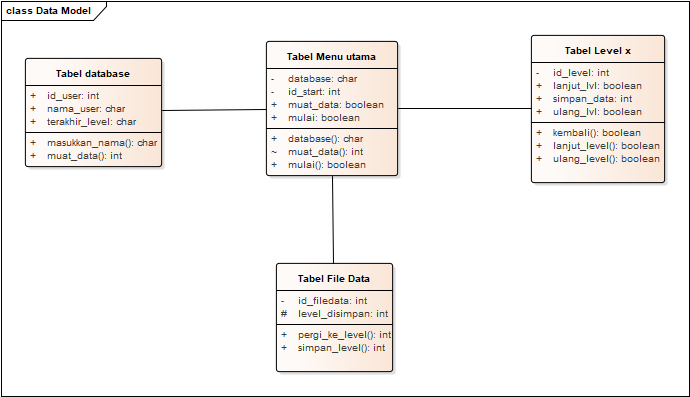
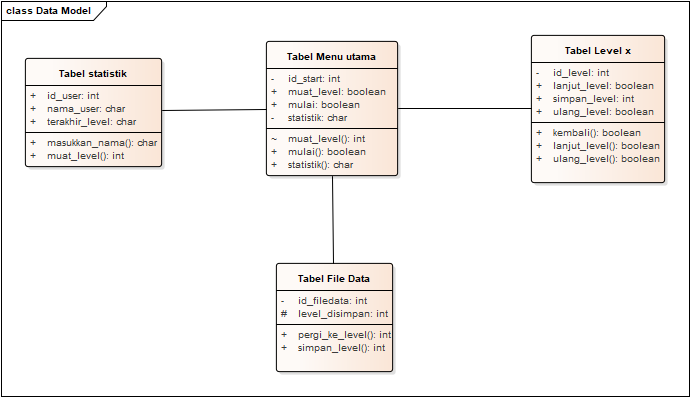
img

diff --git a/README.md b/README.md
@@ -16,19 +16,21 @@ Game ini dibuat dengan bahasa pemrograman GDscript yang mengandung bahasa python
 ### 1. mulai
 ![](foto_v5/act%20v/activity%20mulai.png)
 ### 2. muat data
-![](foto_v5/act%20v/activity%20muat%20data.png)
+![](foto_v5/act%20v/activity%20muat%20level.png)
 ### 3. simpan data
-![](foto_v5/act%20v/activity%20simpan%20data.png)
+![](foto_v5/act%20v/activity%20simpan%20level.png)
 ### 4. database
-![](foto_v5/act%20v/activity%20database.png)
+![](foto_v5/act%20v/activity%20statistik.png)
 
 ## sequence Model
 ### 1. mulai
 ![](foto_v5/sqm%20v/Sequence%20mulai.png)
 ### 2. muat data
-![](foto_v5/sqm%20v/Sequence%20muat%20data.png)
+![](foto_v5/sqm%20v/Sequence%20muat%20level.png)
 ### 3. simpan data
-![](foto_v5/sqm%20v/Sequence%20simpan%20data.png)
+![](foto_v5/sqm%20v/Sequence%20simpan%20level.png)
+### 4. statistik
+![](foto_v5/sqm%20v/Sequence%20statistik.png)
 
 ## class diagram
 ![](foto_v5/cls%20v/Class%20Model.png)
